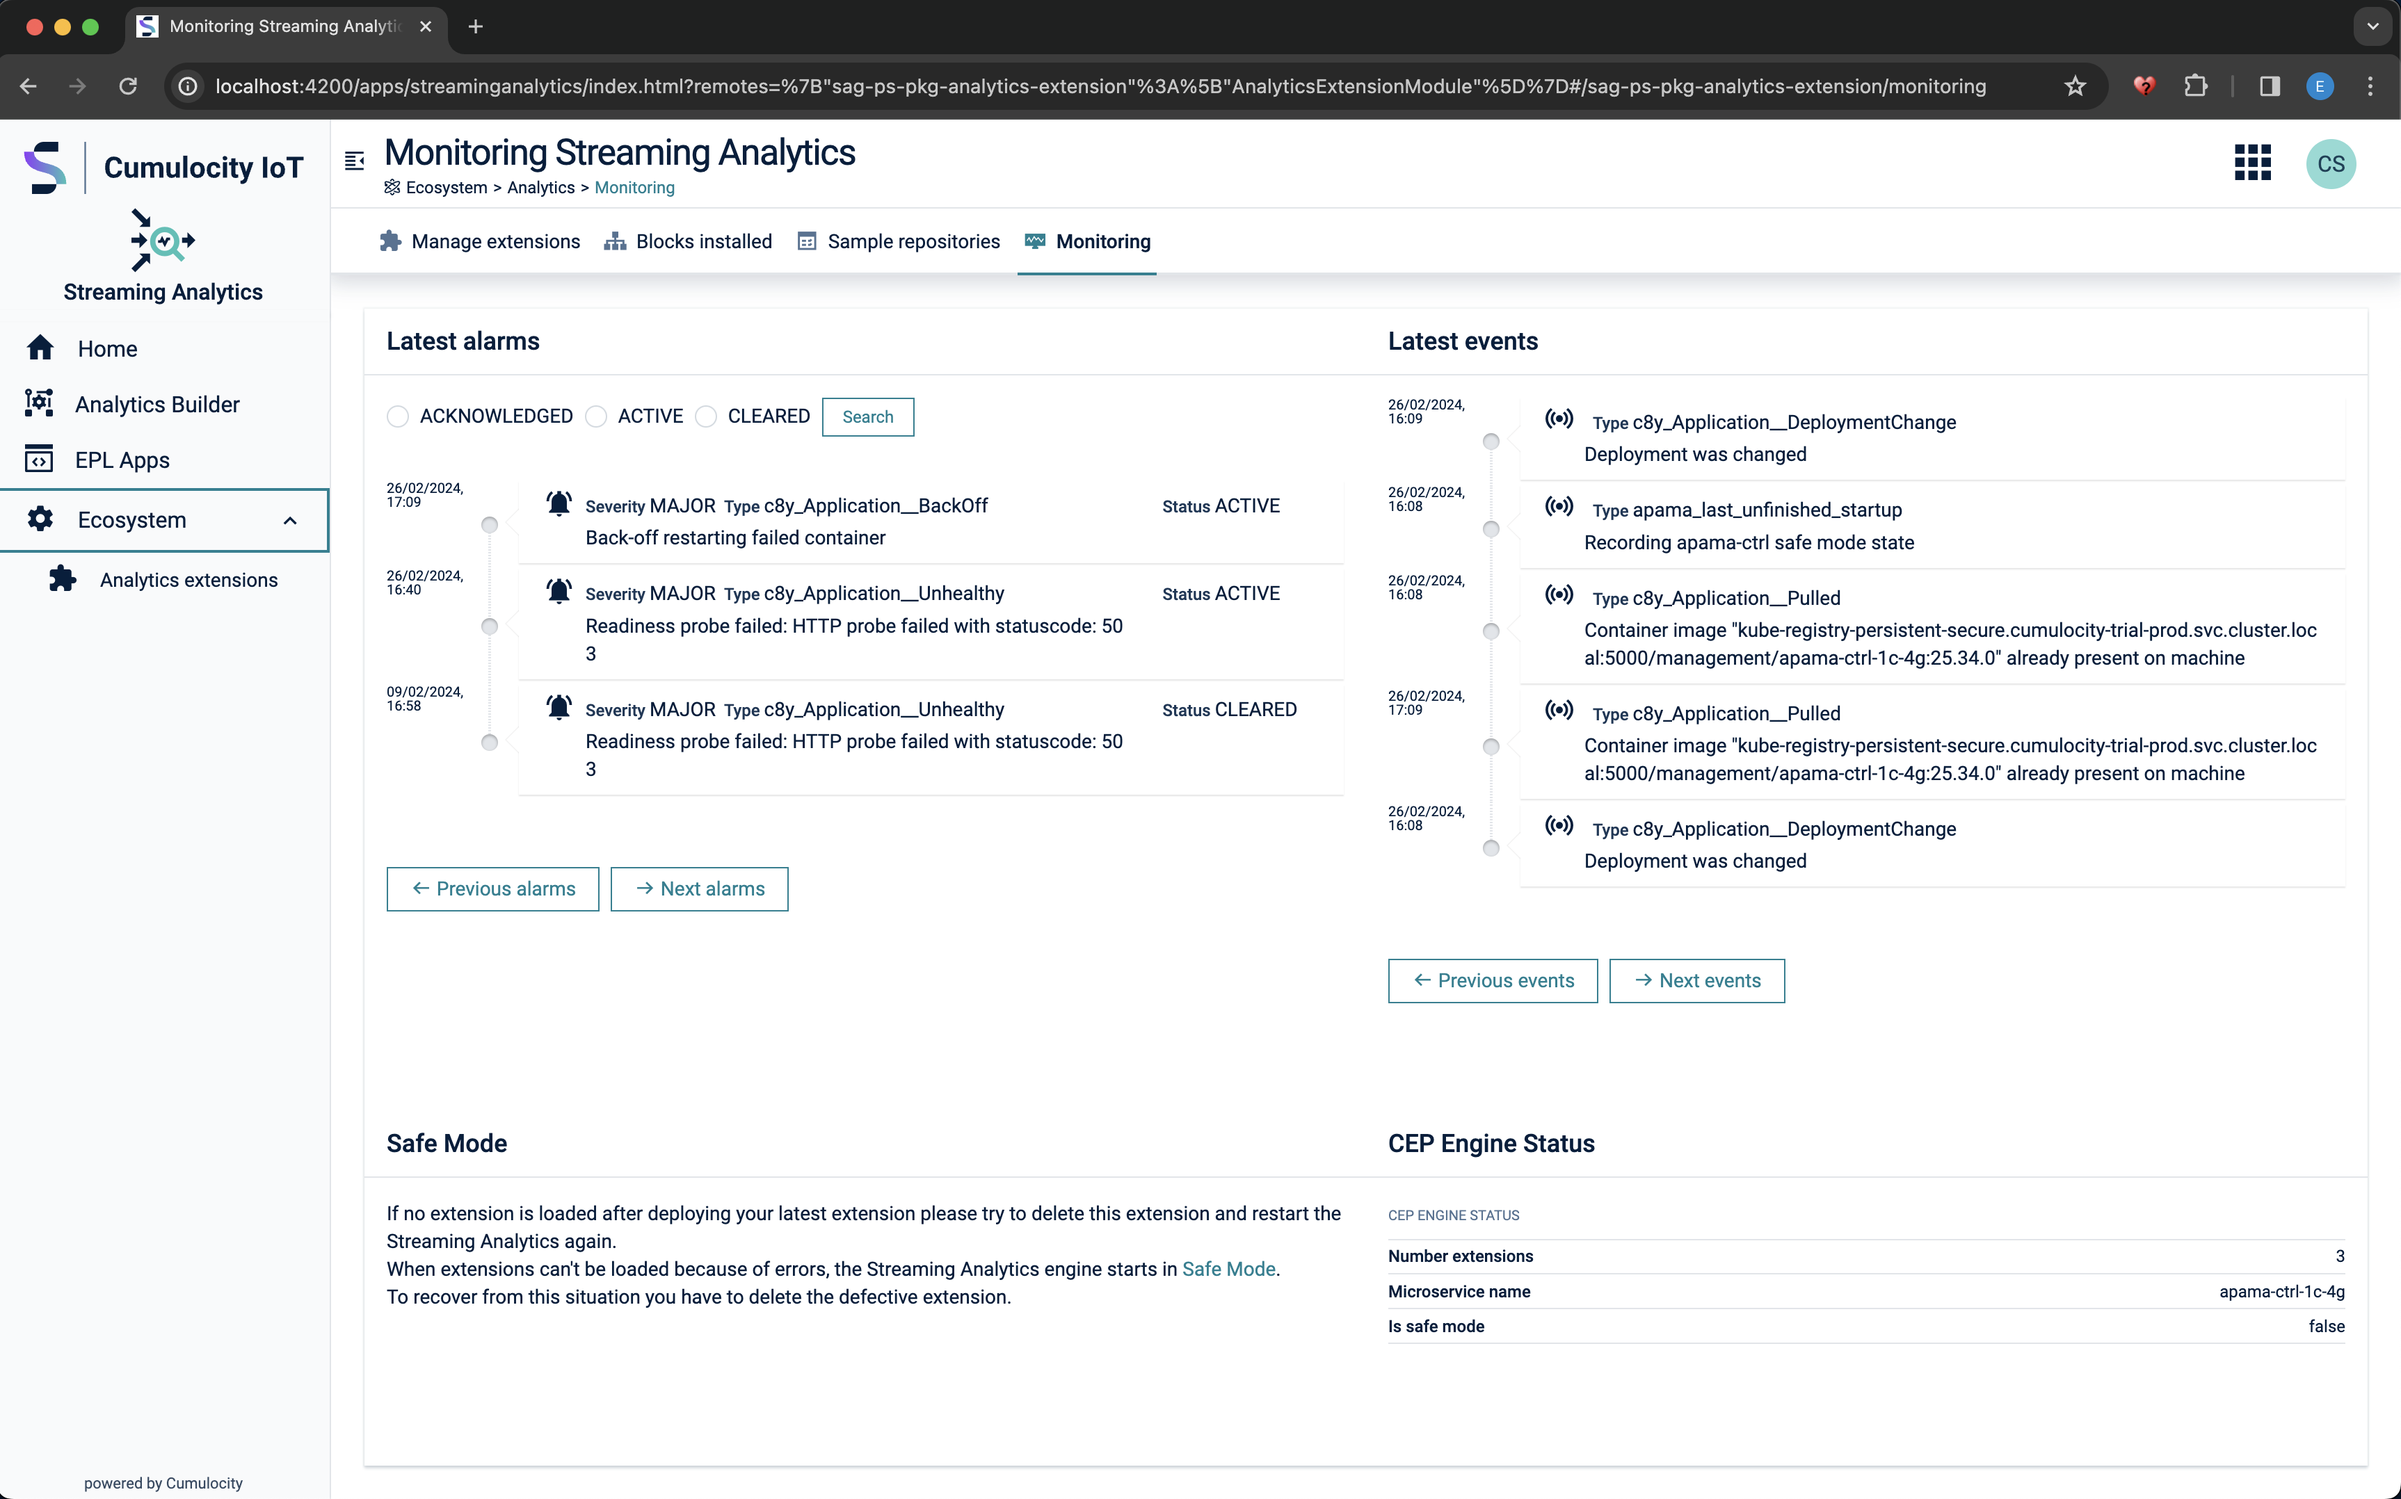
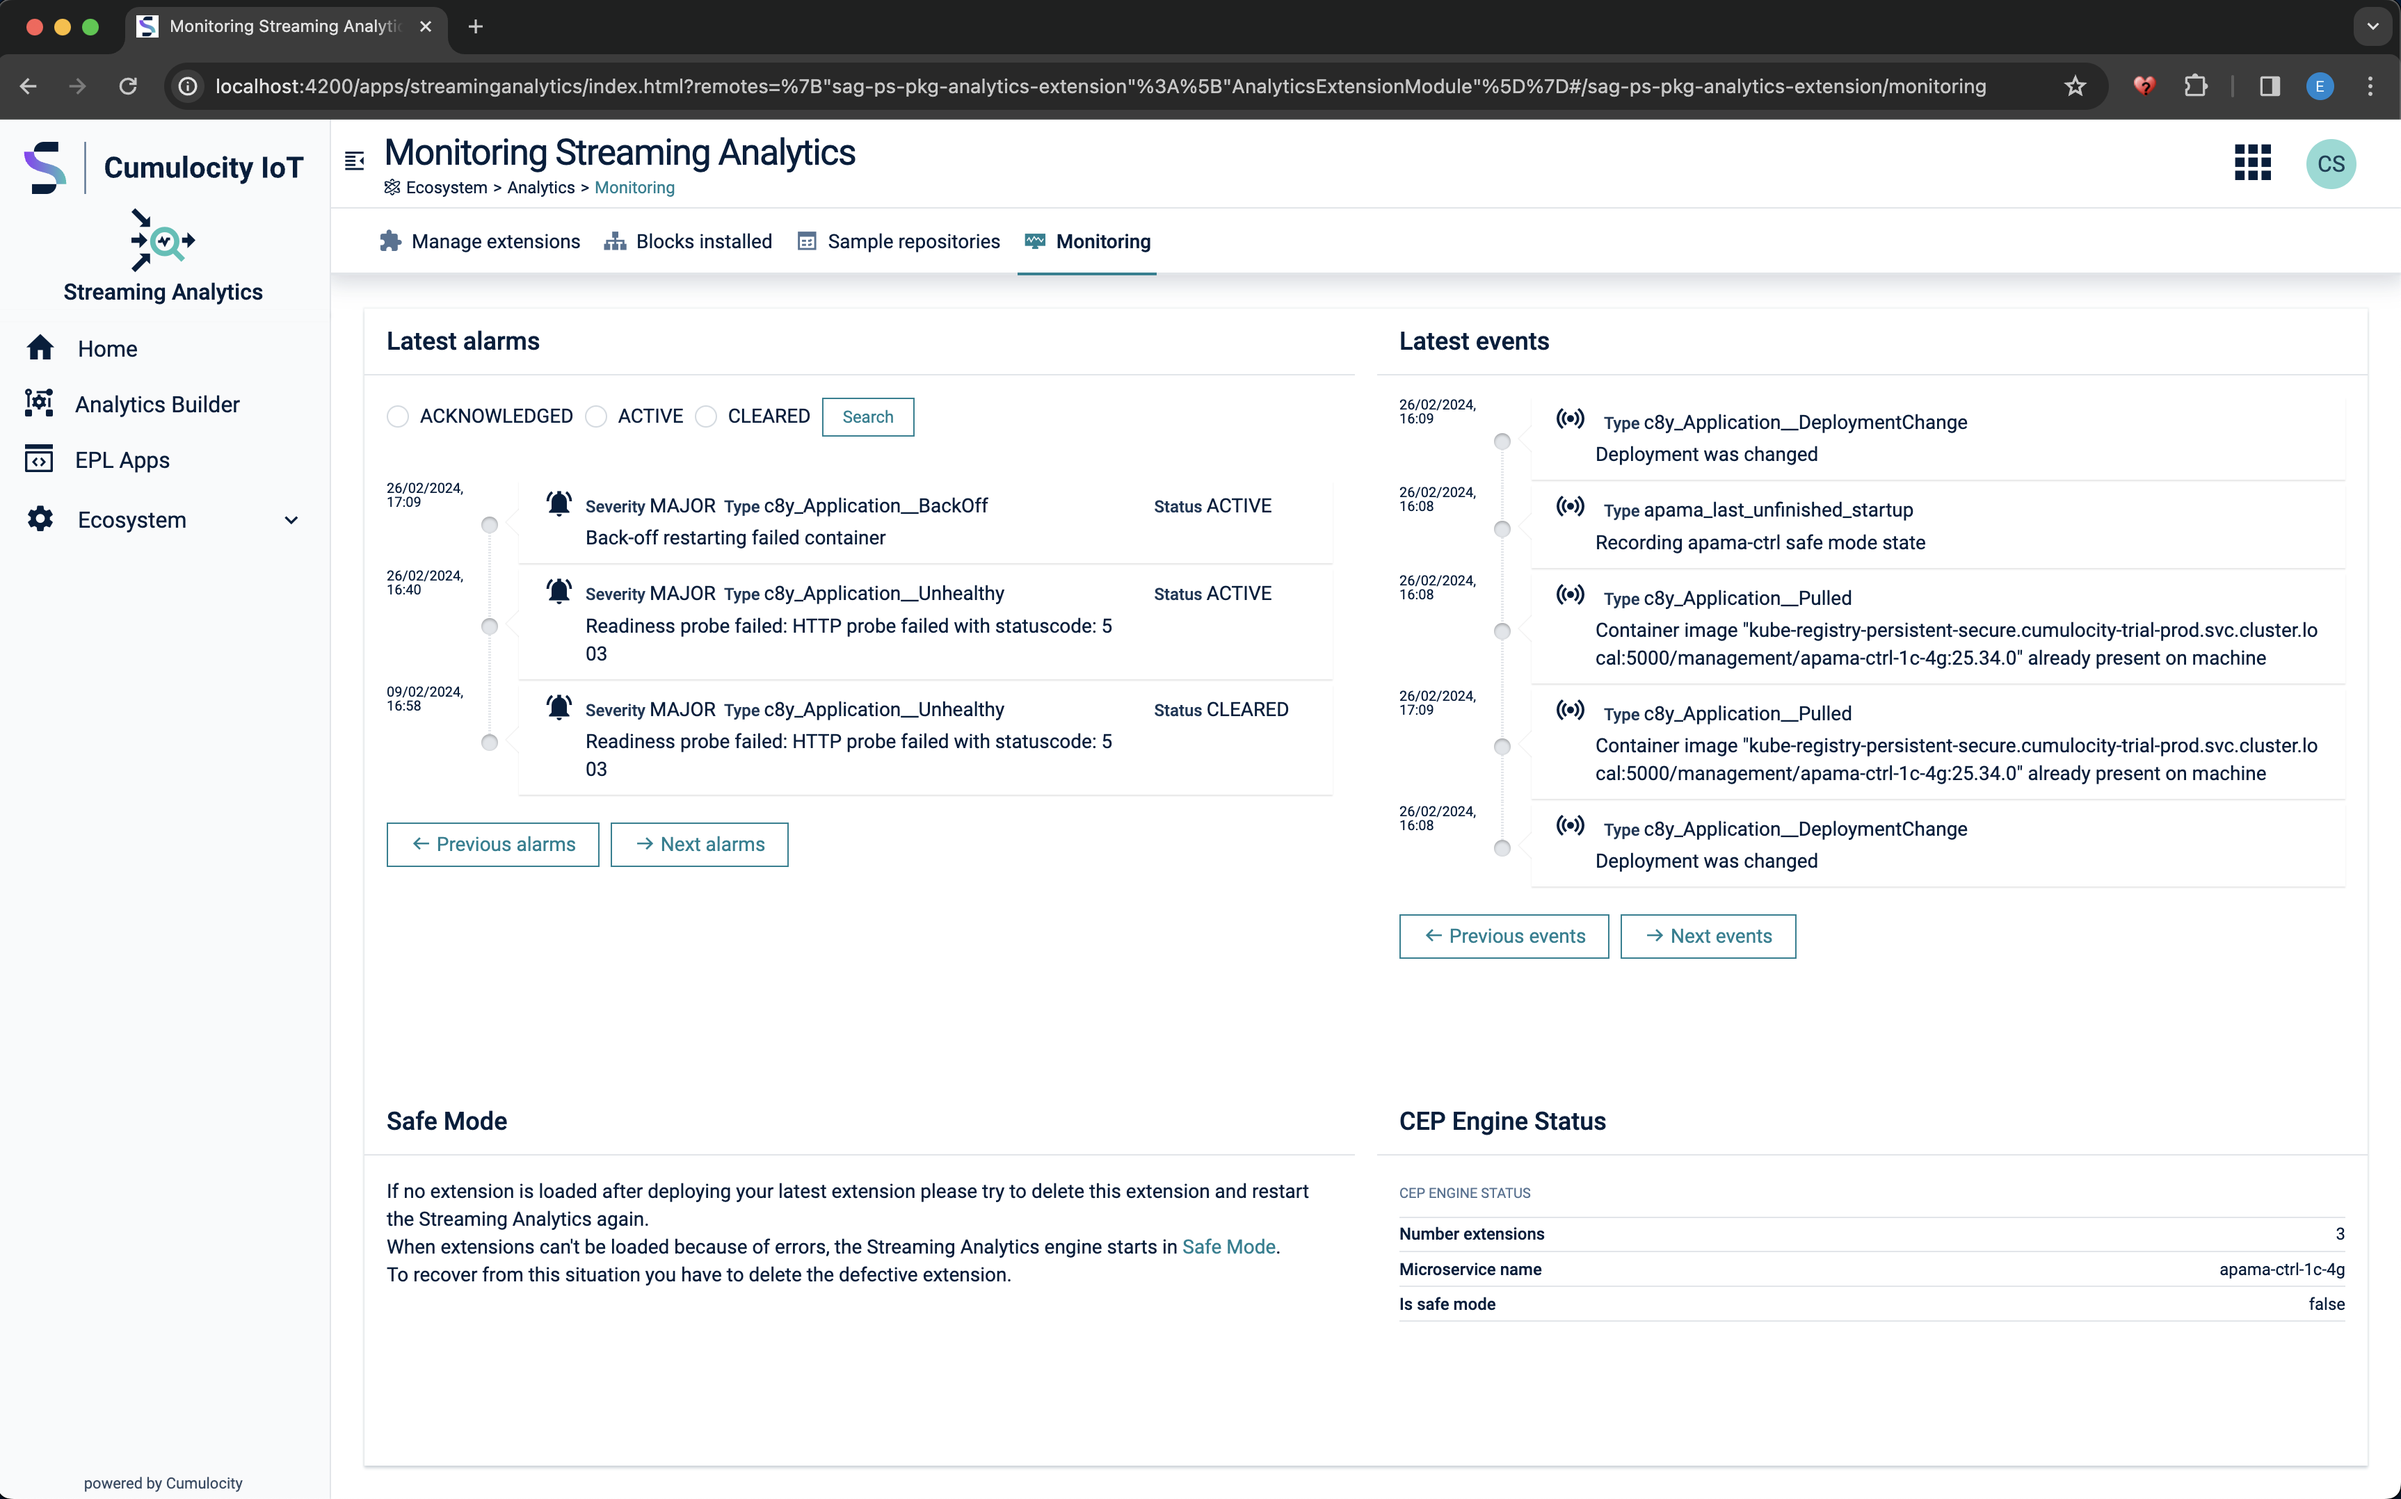
updated screnshots

diff --git a/analytics-ui/src/monitoring/engine-monitoring.component.html b/analytics-ui/src/monitoring/engine-monitoring.component.html
@@ -16,7 +16,7 @@
   </c8y-breadcrumb-item>
 </c8y-breadcrumb>
 <div class="card card--grid content-fullpage grid__col--6-6--md">
-  <div class="inner-scroll bg-level-0">
+  <div class="inner-scroll bg-level-0 p-r-8">
     <div class="card-header separator sticky-top large-padding">
       <h4>Latest alarms</h4>
     </div>
@@ -84,7 +84,7 @@
           [horizontal]="true"
         ></c8y-ui-empty-state>
       </div>
-      <div class="p-t-48">
+      <div class="p-t-16">
         <button
           class="btn btn-default"
           title="{{ 'Previous page' | translate }}"
@@ -104,7 +104,7 @@
       </div>
     </div>
   </div>
-  <div class="inner-scroll bg-level-0">
+  <div class="inner-scroll bg-level-0 p-l-8">
     <div class="card-header separator sticky-top large-padding">
       <h4>Latest events</h4>
     </div>
@@ -140,7 +140,7 @@
           [horizontal]="true"
         ></c8y-ui-empty-state>
       </div>
-      <div class="p-t-48">
+      <div class="p-t-16">
         <button
           class="btn btn-default"
           title="{{ 'Previous page' | translate }}"
@@ -160,7 +160,7 @@
       </div>
     </div>
   </div>
-  <div class="inner-scroll bg-level-0">
+  <div class="inner-scroll bg-level-0 p-r-8">
     <div class="card-header separator sticky-top large-padding"><h4>Safe Mode</h4></div>
     <div class="card-block large-padding bg-inherit overflow-visible">
       <p>
@@ -189,7 +189,7 @@
       </p>
     </div>
   </div>
-  <div class="inner-scroll bg-level-0">
+  <div class="inner-scroll bg-level-0 p-l-8">
     <div class="card-header separator sticky-top large-padding">
       <h4>CEP Engine Status</h4>
     </div>
